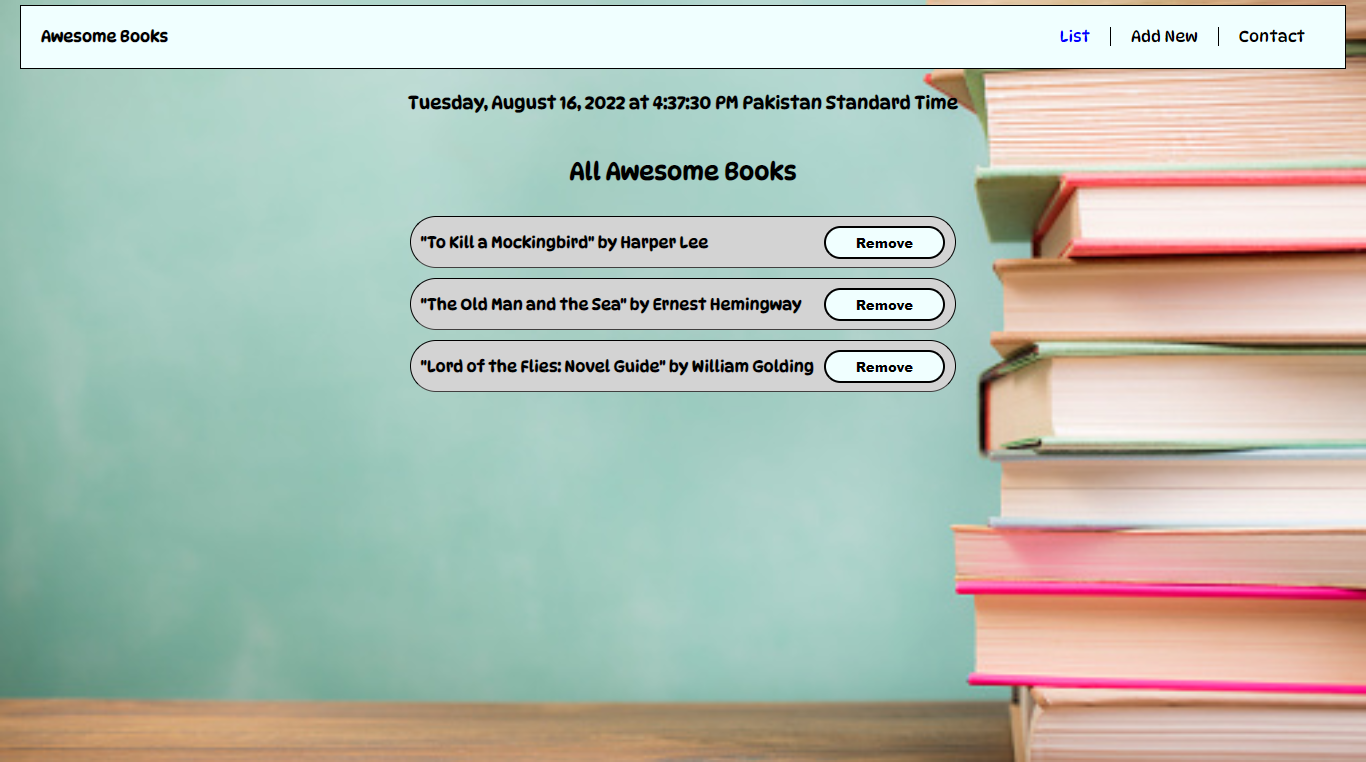
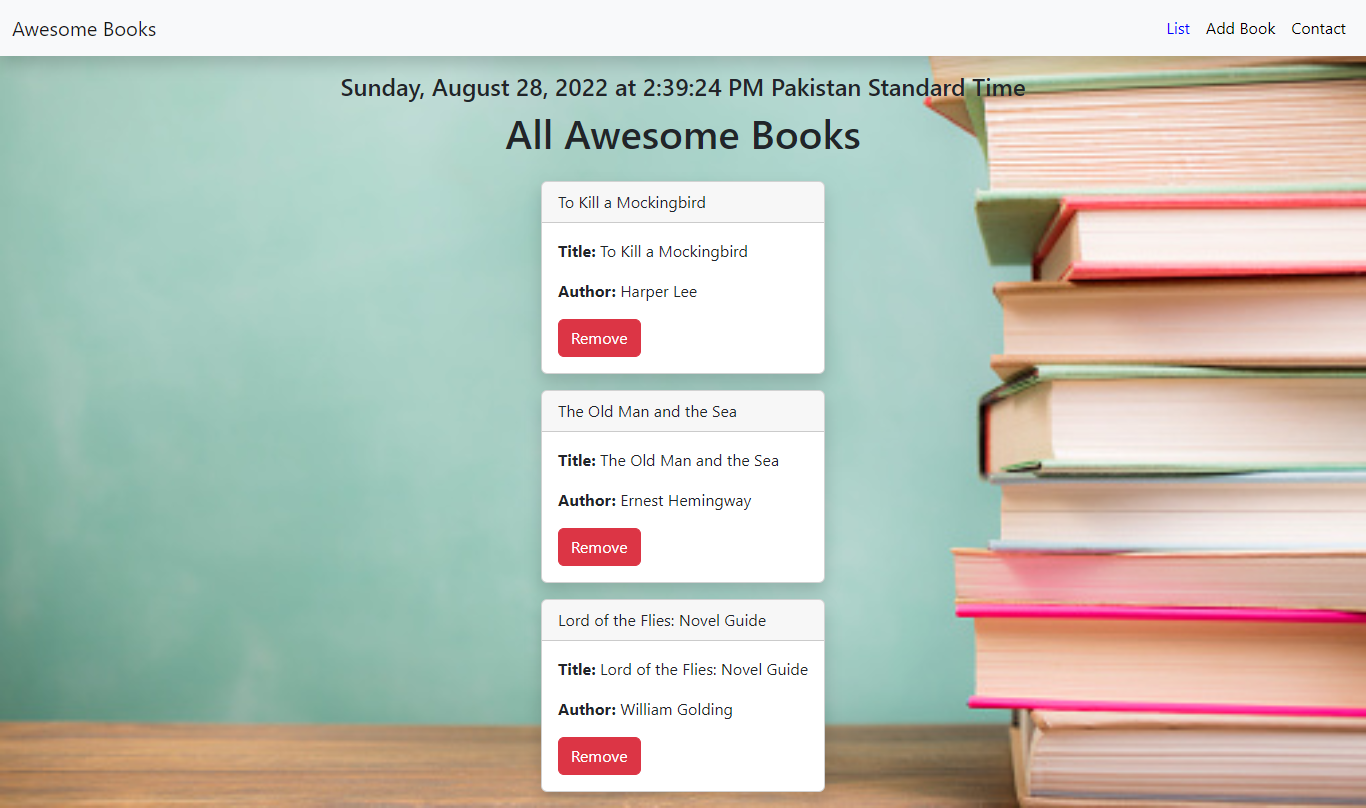
Changed scrollbar and added one new project.

diff --git a/assets/css/style.css b/assets/css/style.css
@@ -27,7 +27,9 @@ a {
   --poppins: "Poppins", sans-serif;
 }
 
-/* Navbar Section */
+/* ==========================
+        Navbar Section
+  ========================= */
 .header {
   display: flex;
   justify-content: space-between;
@@ -122,7 +124,9 @@ a {
   display: none;
 }
 
-/* Hero Section */
+/* ==========================
+        Hero Section
+  ========================= */
 .hero-section {
   background-color: var(--blackColor);
   width: 100%;
@@ -236,7 +240,9 @@ a {
   margin-top: -196px;
 }
 
-/* Work Section */
+/* ==========================
+        Work Section
+  ========================= */
 .grid-items {
   display: grid;
   justify-items: center;
@@ -408,7 +414,9 @@ a {
   padding: 5px;
 }
 
-/* About Section */
+/* ==========================
+        About Section
+  ========================= */
 .about-section {
   background-color: var(--blackColor);
 }
@@ -526,7 +534,9 @@ a {
   line-height: 43px;
 }
 
-/* Contact Section */
+/* ==========================
+        Contact Section
+  ========================= */
 .contact-section {
   display: flex;
   flex-direction: column;
@@ -605,7 +615,9 @@ a {
   width: 131px;
 }
 
-/* Footer Section */
+/* ==========================
+        Footer Section
+  ========================= */
 .footer hr {
   background: #dfe1e6;
 }
@@ -653,7 +665,9 @@ a {
   height: 40px;
 }
 
-/* Button Styles */
+/* ==========================
+        Button Styles
+  ========================= */
 .btn-primary {
   background-color: var(--orangeColor);
   font-family: var(--inter);
@@ -718,7 +732,9 @@ button:disabled {
   height: 0;
 }
 
-/* Modal */
+/* ==========================
+            Modal
+  ========================= */
 .modal-container {
   display: none;
   position: fixed;
@@ -843,7 +859,9 @@ button:disabled {
   display: none;
 }
 
-/* Alert */
+/* ==========================
+            Alert
+  ========================= */
 .alert {
   background-color: red;
   margin-top: 10px;
@@ -883,7 +901,22 @@ button:disabled {
   border: 1px solid var(--orangeColor);
 }
 
-/* Small devices (landscape phones, 576px and up) */
+/* ===========================
+          ScrollBar
+=========================== */
+::-webkit-scrollbar {
+  width: 10px;
+  background-color: #eaeaea;
+}
+
+::-webkit-scrollbar-thumb {
+  background: var(--orangeColor);
+  border-radius: 5px;
+}
+
+/* ===========================
+        Small devices
+=========================== */
 @media (min-width: 576px) {
   .profile-pic {
     height: 120px;
@@ -892,9 +925,13 @@ button:disabled {
   }
 }
 
-/* Medium devices (tablets, 768px and up) */
+/* ===========================
+        Medium devices
+=========================== */
 @media (min-width: 768px) {
-  /* Navbar Section */
+  /* ========================
+         Navbar Section
+  ========================= */
   .mobile-toggle-btn {
     display: none;
   }
@@ -949,7 +986,9 @@ button:disabled {
     margin-top: 10px;
   }
 
-  /* Work Section */
+  /* ==========================
+          Work Section
+  ========================= */
   .grid-items {
     grid-template-rows: repeat(1, 1fr);
     grid-template-columns: repeat(2, 1fr);
@@ -1099,7 +1138,9 @@ button:disabled {
     margin-bottom: -7px;
   }
 
-  /* Contact Section */
+  /* ==========================
+        Contact Section
+  ========================= */
   .text-field {
     width: 684px;
     height: 48px;
@@ -1120,9 +1161,13 @@ button:disabled {
   }
 }
 
-/* // Large devices (desktops, 992px and up) */
+/* ==========================
+        Large devices
+  ========================= */
 @media (min-width: 992px) {
-  /* Hero Section */
+  /* ==========================
+        Hero Section
+  ========================= */
   .hero-section {
     height: 870px;
   }
@@ -1192,7 +1237,9 @@ button:disabled {
     margin: 0 0 270px 500px;
   }
 
-  /* Work Section */
+  /* ==========================
+        Work Section
+  ========================= */
   .grid-items {
     grid-template-rows: repeat(1, 1fr);
     grid-template-columns: 350px 300px 350px;
@@ -1269,7 +1316,9 @@ button:disabled {
     grid-area: card9;
   }
 
-  /* About Section */
+  /* ==========================
+        About Section
+  ========================= */
   .about-flex {
     height: 870px;
   }
@@ -1337,7 +1386,9 @@ button:disabled {
     text-align: justify;
   }
 
-  /* Contact Section */
+  /* ==========================
+        Contact Section
+  ========================= */
   .contact-section {
     flex-direction: row;
   }
@@ -1360,7 +1411,9 @@ button:disabled {
     width: 572px;
   }
 
-  /* Modal */
+  /* ==========================
+            Modal
+  ========================= */
   .modal {
     width: 1000px;
     max-width: calc(100% - 20px);
@@ -1416,15 +1469,21 @@ button:disabled {
   }
 }
 
-/* // X-Large devices (large desktops, 1200px and up) */
+/* ==========================
+        X-Large devices
+  ========================= */
 @media (min-width: 1200px) {
-  /* About Section */
+  /* ==========================
+        About Section
+  ========================= */
   .about-image {
     width: 600.39px;
     height: 744.38px;
   }
 
-  /* Contact Section */
+  /* ==========================
+        Contact Section
+  ========================= */
   .contact-heading {
     font-size: 40px;
     line-height: 52px;

diff --git a/assets/js/index.js b/assets/js/index.js
@@ -81,10 +81,19 @@ document.addEventListener("DOMContentLoaded", () => {
       id: 3,
       title: "Awesome Books",
       desc: "In this website you can add your favorite books and save it and see it as you want.",
-      languages: ["HTML", "CSS", "JS"],
+      languages: ["HTML", "BOOTSTRAP", "JS"],
       live: "https://aamirkhan2478.github.io/awesome-books/",
       source: "https://github.com/aamirkhan2478/awsome-books-es6.git",
       img: "./assets/images/awesome-books.png",
+    },
+    {
+      id: 4,
+      title: "Leader Board",
+      desc: "In this website you will add scores and also see your scores and i used api for post and get data.",
+      languages: ["HTML", "BOOTSTRAP", "JS"],
+      live: "https://aamirkhan2478.github.io/leader-board/dist/",
+      source: "https://github.com/aamirkhan2478/leader-board",
+      img: "./assets/images/leader-board.png",
     },
   ];
 
